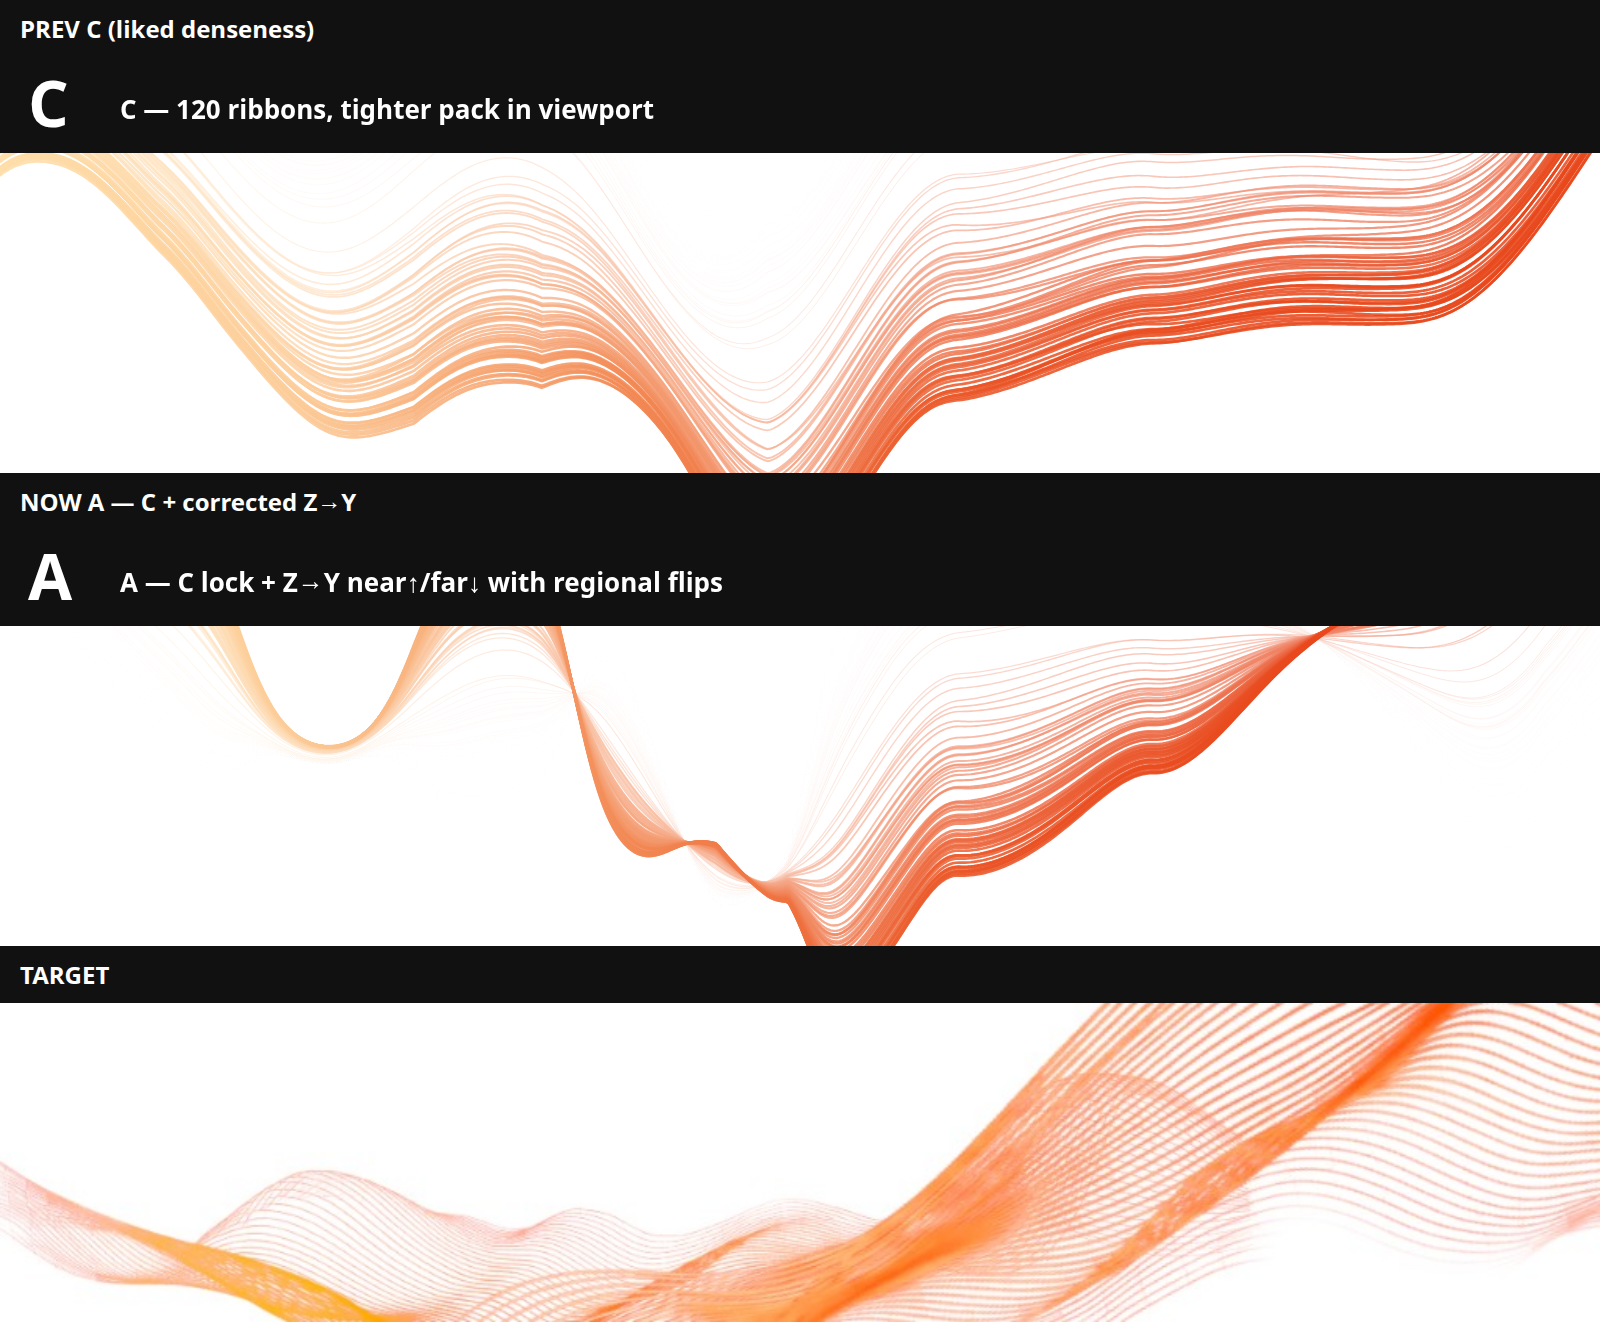
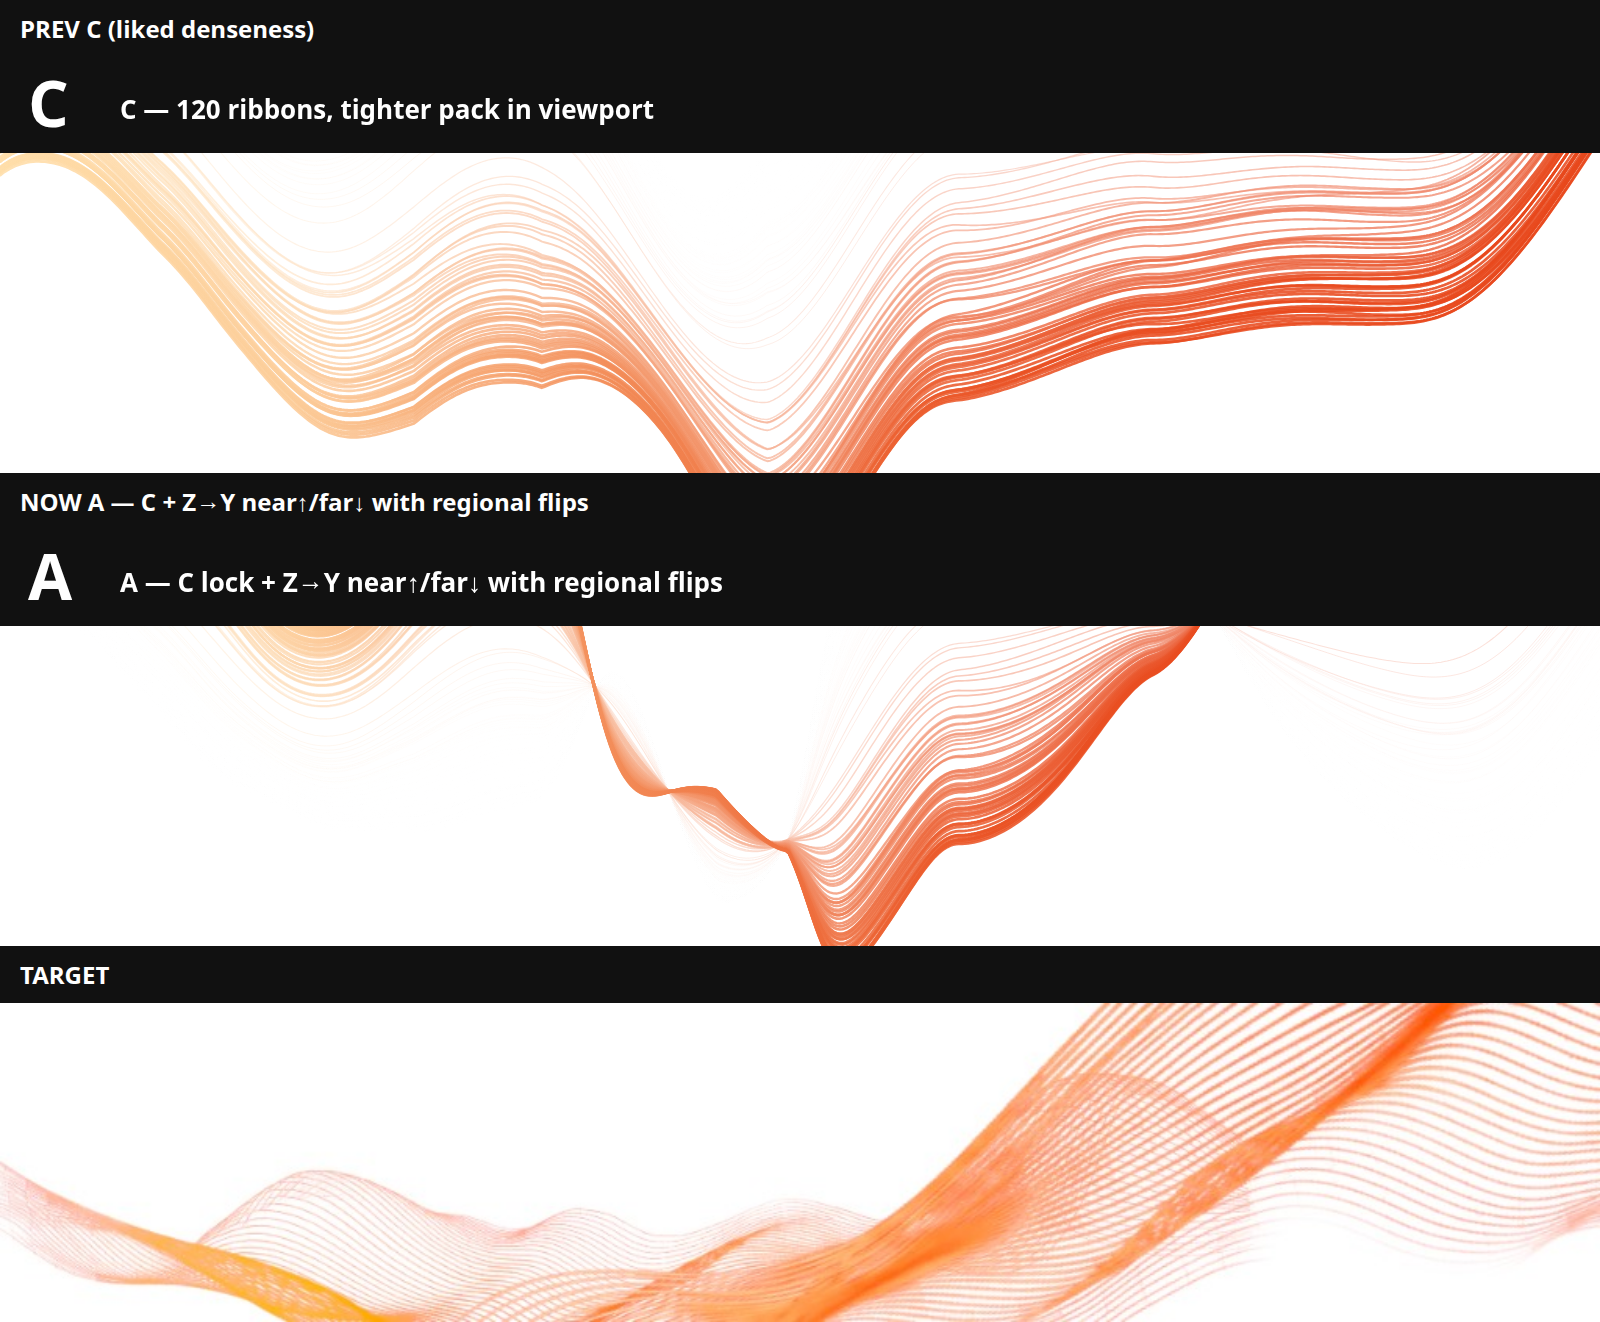
fix(lab): bias Twizzler Z→Y to near-up with regional flips (#CF-16)
Default order keeps near ribbons visually above far; slow X/Y rolls still
flip the stack in places so both orderings appear across the field.

Changed region(s): [[0.125, 0.4652, 0.9062, 0.7133], [0.125, 0.3722, 0.375, 0.4032], [0.1875, 0.5582, 0.2188, 0.5893]]

diff --git a/apps/lab/src/twizzler.ts b/apps/lab/src/twizzler.ts
@@ -537,17 +537,19 @@ export function twizzlerUnevenAcross(lineCount: number, gapNoise = 0.55, seed = 
 
 /**
  * Local Z→Y stack order (−1..1) over the ribbon field.
- * +1: walk near→far = visually high→low (near smaller canvas Y).
- * −1: opposite. Varies across X and path Y so both orderings appear.
+ * +1 (default): walk near→far = visually high→low (near smaller canvas Y / saturated on top).
+ * −1: opposite. Slow X/Y rolls create regional flips so both orderings appear.
  */
 export function twizzlerZyOrder(xT: number, pathYN: number, seed = 2.4): number {
   const x = Math.max(0, Math.min(1, xT));
   const y = Math.max(0, Math.min(1, pathYN));
+  // Mild +bias (near↑/far↓ default); strong X/Y rolls still carve flipped regions.
   const field =
-    0.7 * Math.sin(x * Math.PI * 2.15 + 0.25) +
-    0.45 * Math.sin(y * Math.PI * 2.0 + 0.9) +
-    0.35 * (twizzlerNoise(x * 1.6 + seed, y * 1.3 + seed * 0.4, 0.55) * 2 - 1);
-  return Math.tanh(field * 1.6);
+    0.28 +
+    0.95 * Math.sin(x * Math.PI * 2.35 + 0.1) +
+    0.55 * Math.sin(y * Math.PI * 1.9 + 1.1) +
+    0.3 * (twizzlerNoise(x * 1.5 + seed, y * 1.2 + seed * 0.4, 0.55) * 2 - 1);
+  return Math.tanh(field * 1.45);
 }
 
 /**
